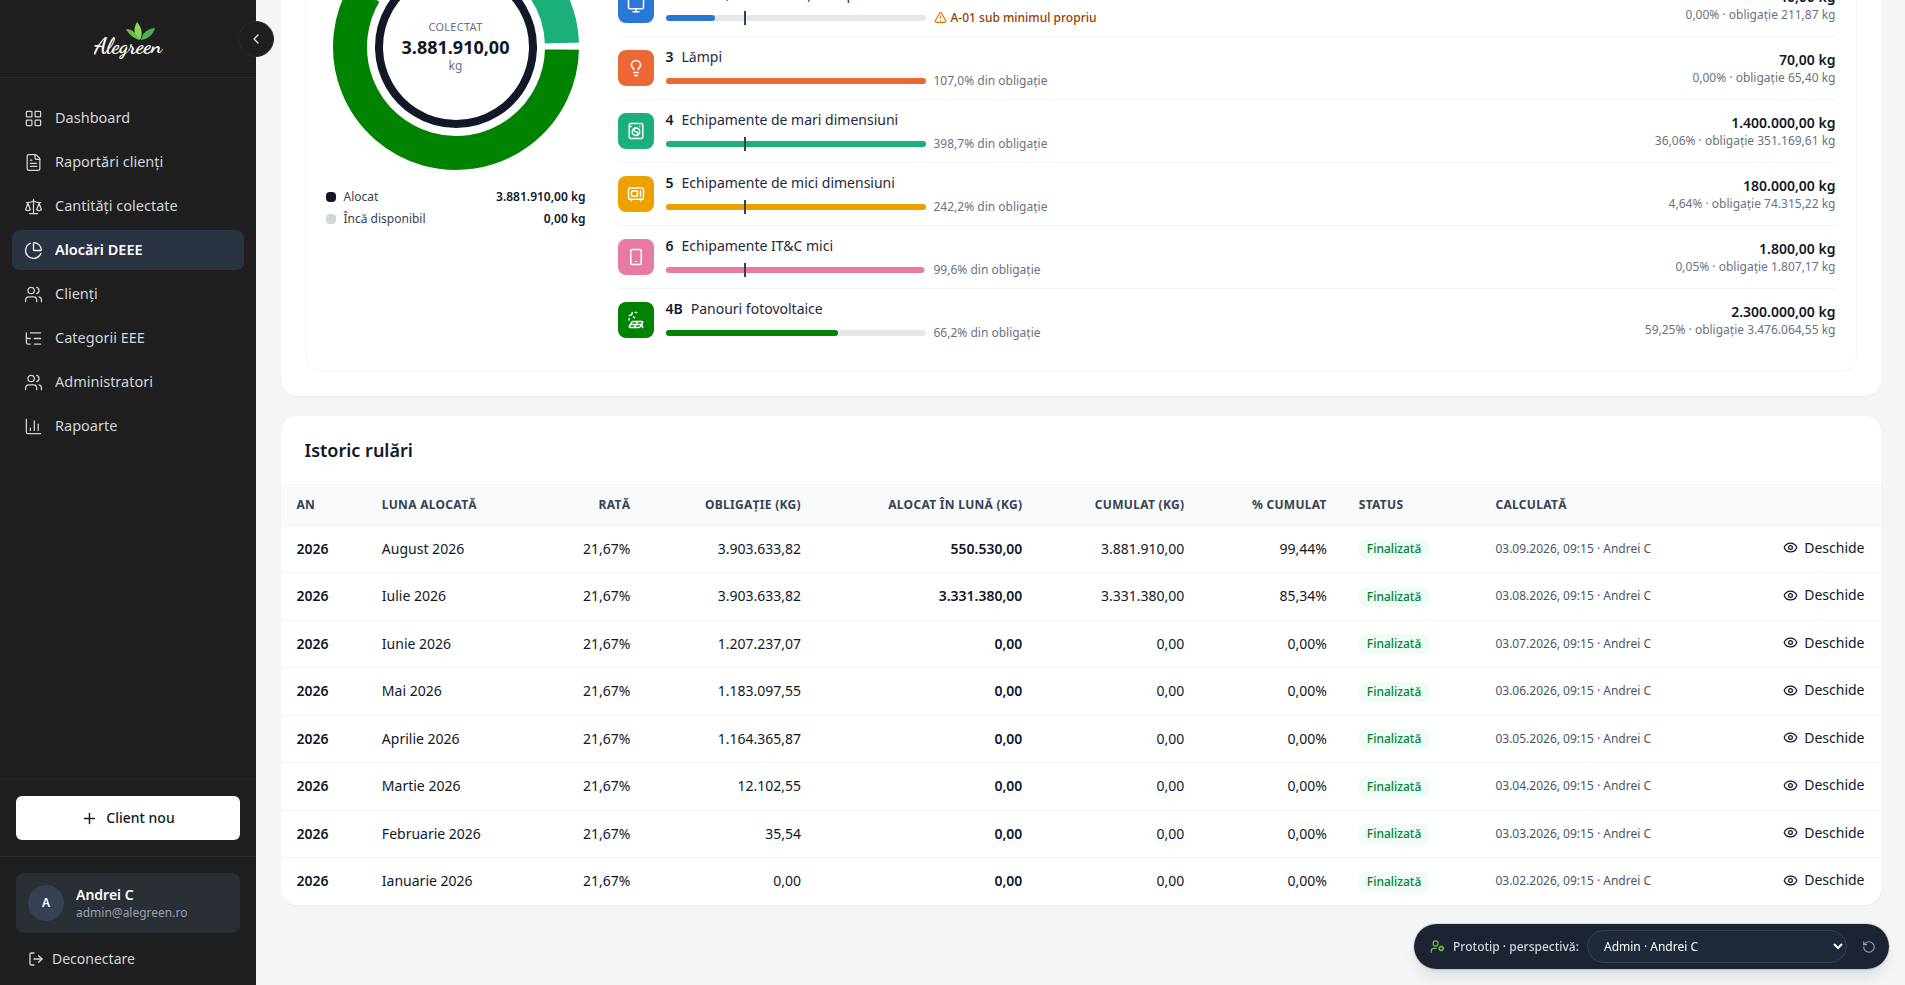
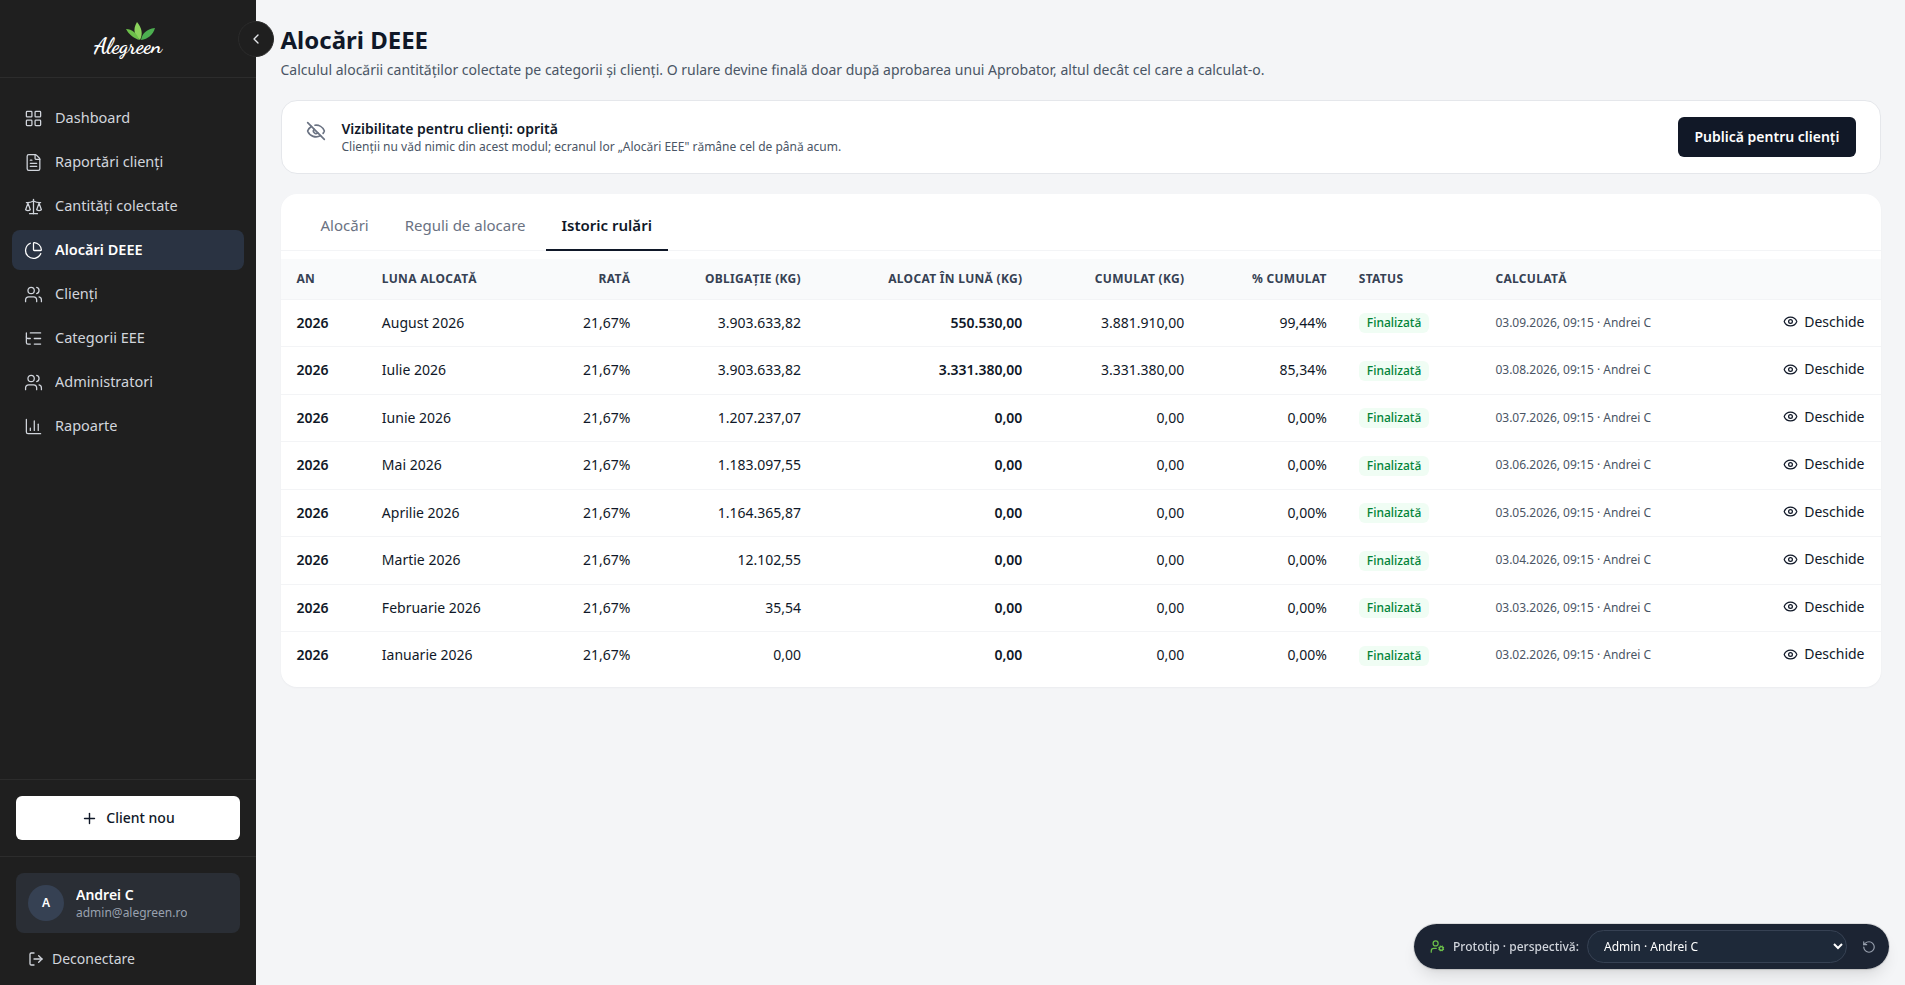
Istoric rulări într-un tab separat; termenul OIREP în Raportul AFM
Claude-Session: https://claude.ai/code/session_01Prnuzoa85gUHU6pRfrAuuC

diff --git a/src/components/allocation/RunHistoryTable.tsx b/src/components/allocation/RunHistoryTable.tsx
@@ -1,3 +1,4 @@
+import type React from 'react';
 import { Link } from 'react-router-dom';
 import Decimal from 'decimal.js';
 import { Eye } from 'lucide-react';
@@ -8,14 +9,14 @@ import { runResult } from '../../data/useRunResult';
 import { fmtDateTime, fmtKg, fmtPct } from '../../lib/format';
 import { rateLabel, sessionLabel } from '../../lib/runLabels';
 
-export function RunHistoryTable() {
+/** Istoricul sesiunilor de alocare; `embedded` = în tab-ul „Istoric rulări”, fără card propriu. */
+export function RunHistoryTable({ embedded = false }: { embedded?: boolean }) {
   const { state } = useStore();
   const runs = [...state.runs].sort((a, b) => b.anObligatie - a.anObligatie || b.luna - a.luna || b.creatLa.localeCompare(a.creatLa));
   const adminName = (id: string) => state.admins.find((a) => a.id === id)?.nume ?? id;
 
   return (
-    <Card>
-      <CardHeader title="Istoric rulări" />
+    <Wrapper embedded={embedded}>
       <div className="overflow-x-auto">
         <table className="w-full text-sm">
           <thead>
@@ -79,6 +80,16 @@ export function RunHistoryTable() {
           </tbody>
         </table>
       </div>
+    </Wrapper>
+  );
+}
+
+function Wrapper({ embedded, children }: { embedded: boolean; children: React.ReactNode }) {
+  if (embedded) return <div className="py-2">{children}</div>;
+  return (
+    <Card>
+      <CardHeader title="Istoric rulări" />
+      {children}
     </Card>
   );
 }

diff --git a/src/pages/admin/AllocationsPage.tsx b/src/pages/admin/AllocationsPage.tsx
@@ -22,7 +22,8 @@ export function AllocationsPage() {
   const { state } = useStore();
   const { createRun, saveRules } = useActions();
   const [search, setSearch] = useSearchParams();
-  const tab: AllocationTab = search.get('tab') === 'reguli' ? 'reguli' : 'alocari';
+  const tabParam = search.get('tab');
+  const tab: AllocationTab = tabParam === 'reguli' || tabParam === 'istoric' ? tabParam : 'alocari';
   const activeRunId = search.get('rulare');
   const setParam = (k: string, v: string | null) =>
     setSearch(
@@ -74,8 +75,10 @@ export function AllocationsPage() {
       <VisibilityBanner />
 
       <Card>
-        <AllocationTabs value={tab} onChange={(t) => setParam('tab', t === 'reguli' ? 'reguli' : null)} rulesDirty={rulesDirty} />
-        {tab === 'reguli' ? (
+        <AllocationTabs value={tab} onChange={(t) => setParam('tab', t === 'alocari' ? null : t)} rulesDirty={rulesDirty} />
+        {tab === 'istoric' ? (
+          <RunHistoryTable embedded />
+        ) : tab === 'reguli' ? (
           <RulesEditor draft={draft} onChange={setDraft} onSave={() => saveRules(draft)} />
         ) : (
           <AvailabilitySection
@@ -143,7 +146,6 @@ export function AllocationsPage() {
             </div>
           )}
 
-          <RunHistoryTable />
         </>
       )}
     </div>

diff --git a/src/components/reports/RaportAFMReport.tsx b/src/components/reports/RaportAFMReport.tsx
@@ -27,9 +27,9 @@ export function RaportAFMReport({ run, client }: { run: AllocationRun; client: C
             <th className={`${thDoc} w-[26%]`}>Categorie EEE</th>
             <th className={thDoc}>Cantitate totală de EEE introdusă pe piața națională (kg)</th>
             <th className={thDoc}>Cantitate introdusă pentru care se realizează obiectivele în mod individual (kg)</th>
-            <th className={thDoc}>Cantitate introdusă pentru care se realizează obiectivele prin transfer către OTR (kg)</th>
+            <th className={thDoc}>Cantitate introdusă pentru care se realizează obiectivele prin transfer către OIREP (kg)</th>
             <th className={thDoc}>Cantitate de DEEE colectată în mod individual (kg)</th>
-            <th className={thDoc}>Cantitate de DEEE colectată de către OTR (kg)</th>
+            <th className={thDoc}>Cantitate de DEEE colectată de către OIREP (kg)</th>
           </tr>
         </thead>
         <tbody>

diff --git a/src/components/allocation/AllocationTabs.tsx b/src/components/allocation/AllocationTabs.tsx
@@ -1,10 +1,11 @@
-export type AllocationTab = 'alocari' | 'reguli';
+export type AllocationTab = 'alocari' | 'reguli' | 'istoric';
 
 /** Tab-urile cardului principal al paginii Alocări DEEE (M1). */
 export function AllocationTabs({ value, onChange, rulesDirty }: { value: AllocationTab; onChange: (t: AllocationTab) => void; rulesDirty: boolean }) {
   const tabs: { id: AllocationTab; label: string }[] = [
     { id: 'alocari', label: 'Alocări' },
     { id: 'reguli', label: 'Reguli de alocare' },
+    { id: 'istoric', label: 'Istoric rulări' },
   ];
   return (
     <div role="tablist" className="flex gap-1 border-b border-gray-100 px-6">
